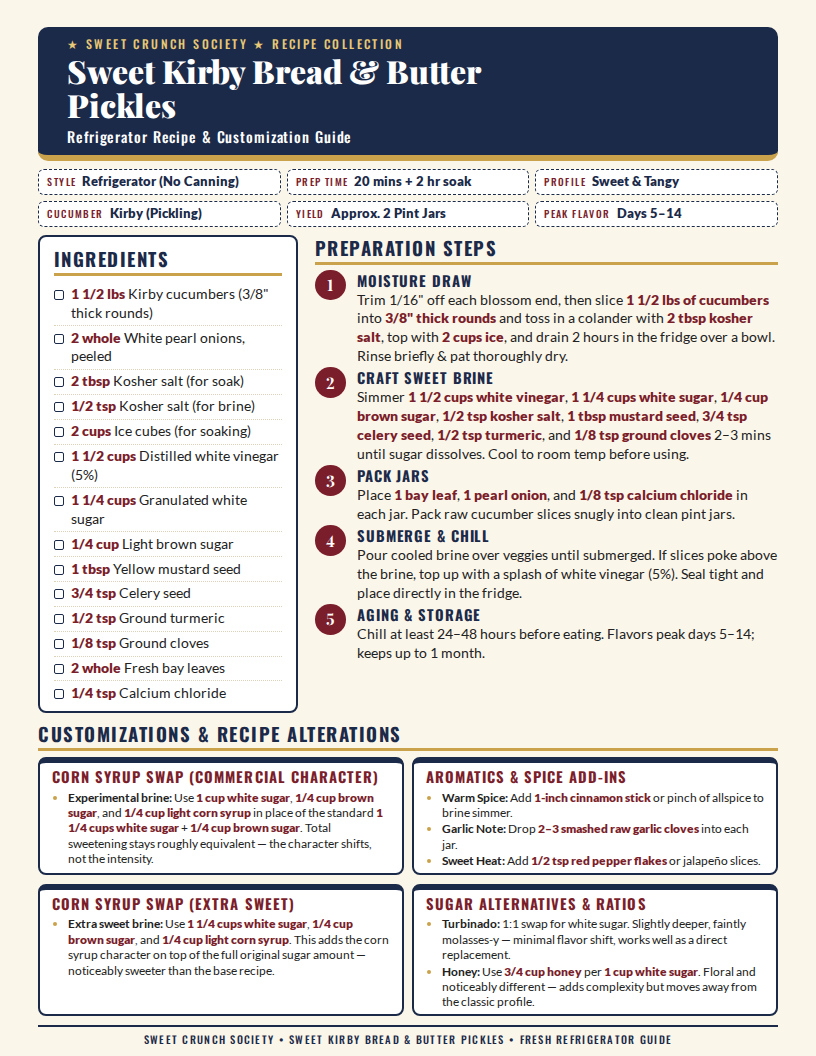
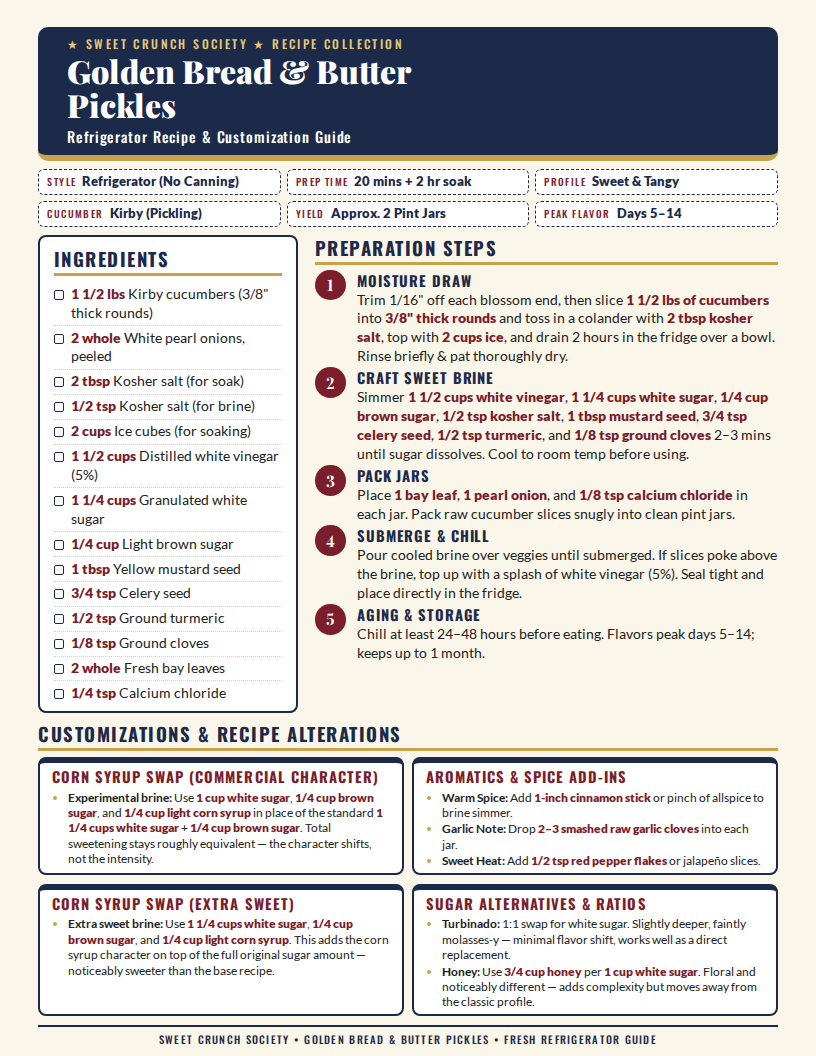
feat: rename recipe to "Golden Bread & Butter Pickles"
Renamed from "Sweet Kirby Bread & Butter Pickles" in the page title,
header, and footer of index.html, and in the README intro and preview
alt text. The Kirby cucumber stat and ingredient are unchanged.
Regenerated docs/preview.png; the title still wraps to two lines and the
sheet fits the letter page.

Changed region(s): [[0.1838, 0.9688, 0.8272, 1.0], [0.0613, 0.0312, 0.5821, 0.0938]]

diff --git a/index.html b/index.html
@@ -3,7 +3,7 @@
 <head>
 <meta charset="utf-8">
 <meta name="viewport" content="width=device-width, initial-scale=1">
-<title>Sweet Kirby Bread &amp; Butter Pickles</title>
+<title>Golden Bread &amp; Butter Pickles</title>
 <link rel="preconnect" href="https://fonts.googleapis.com">
 <link rel="preconnect" href="https://fonts.gstatic.com" crossorigin>
 <link href="https://fonts.googleapis.com/css2?family=Playfair+Display:wght@700;900&family=Lato:wght@400;700;900&family=Oswald:wght@500;700&display=swap" rel="stylesheet">
@@ -122,7 +122,7 @@
 
   <header>
     <div class="kicker">&#9733; Sweet Crunch Society &#9733; Recipe Collection</div>
-    <h1>Sweet Kirby Bread &amp; Butter Pickles</h1>
+    <h1>Golden Bread &amp; Butter Pickles</h1>
     <div class="sub">Refrigerator Recipe &amp; Customization Guide</div>
   </header>
 
@@ -205,7 +205,7 @@
     </section>
   </main>
 
-  <footer>Sweet Crunch Society &bull; Sweet Kirby Bread &amp; Butter Pickles &bull; Fresh Refrigerator Guide</footer>
+  <footer>Sweet Crunch Society &bull; Golden Bread &amp; Butter Pickles &bull; Fresh Refrigerator Guide</footer>
 </div>
 </body>
 </html>

diff --git a/README.md b/README.md
@@ -1,8 +1,8 @@
 # Sweet Crunch Society
 
-A printable, single-page recipe card for **Sweet Kirby Bread & Butter Pickles**, a refrigerator (no-canning) clone of the store-bought classic. A second card, `index-zesty.html`, covers **Zesty Garlic Dill Refrigerator Pickles**.
+A printable, single-page recipe card for **Golden Bread & Butter Pickles**, a refrigerator (no-canning) clone of the store-bought classic. A second card, `index-zesty.html`, covers **Zesty Garlic Dill Refrigerator Pickles**.
 
-![Preview of the Sweet Kirby Bread & Butter Pickles card](docs/preview.png)
+![Preview of the Golden Bread & Butter Pickles card](docs/preview.png)
 
 ![Preview of the Zesty Garlic Dill Refrigerator Pickles card](docs/preview-zesty.png)
 
